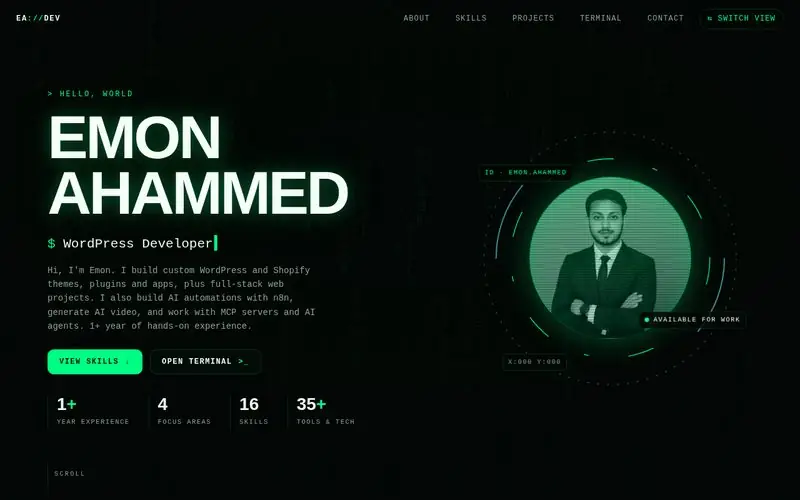
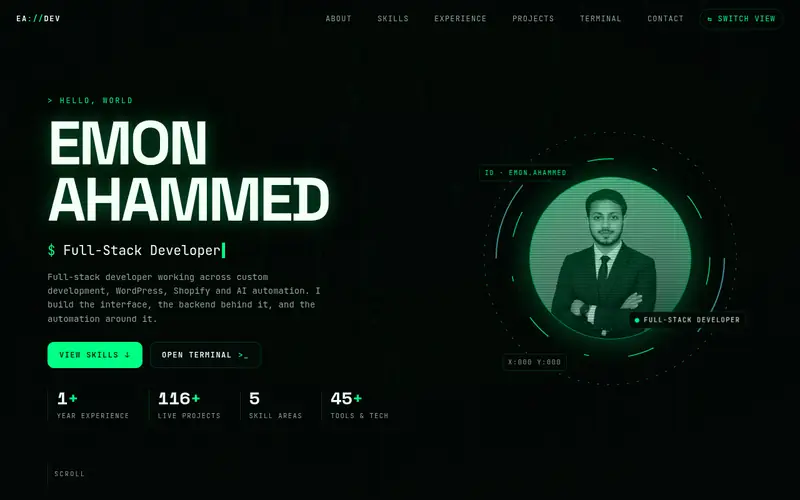
Experience links, BD Calling Academy, 3D project, fresh previews
- Experience: Pixelora Studio (branch of Betopia Limited) with links to both
  companies; Trainee Developer at BD Calling Academy (3 months) added first
- Mac desktop info, dock messages and Developer profile mention the roles
- Custom Development: Pixelora Studio 3D Experience (Three.js) at number 3
- Entry page ring uses fresh screenshots of all three portfolios

diff --git a/data.js b/data.js
@@ -111,8 +111,8 @@ window.PORTFOLIO = {
     { id: "experience", title: "1+ YEAR", cover: "year", cat: "about",
       subtitle: "Experience",
       type: "Experience",
-      text: "More than one year of custom full-stack development and real WordPress and Shopify projects, plus AI automation work.",
-      tools: "Full Stack, WordPress, Shopify, AI" },
+      text: "Started as a Trainee Developer at BD Calling Academy (3 months), then joined Pixelora Studio, a branch of Betopia Limited: WordPress Executive & Team Lead (6 months), Shopify Executive & Team Lead (4 months) and Executive, Full-Stack Web Developer (6 months).",
+      tools: "BD Calling Academy, Pixelora Studio, Betopia Limited" },
 
     { id: "projects", title: "PROJECTS", cover: "folder", cat: "about",
       subtitle: "Live client work",
@@ -152,11 +152,11 @@ window.PORTFOLIO = {
 
   // Entry page: the portfolio styles a visitor can pick. Add another object to add another style.
   modes: [
-    { key: "mac", name: "Quick & Simple", tag: "macOS desktop", href: "mac/", preview: "previews/mac.webp",
+    { key: "mac", name: "Quick & Simple", tag: "macOS desktop", href: "mac/", preview: "previews/mac.webp?v=2",
       desc: "A Mac-style desktop. Click icons, open windows, play with the dock. See everything in a minute." },
-    { key: "dev", name: "Developer", tag: "full portfolio", href: "dev/", preview: "previews/dev.webp",
+    { key: "dev", name: "Developer", tag: "full portfolio", href: "dev/", preview: "previews/dev.webp?v=2",
       desc: "The full technical portfolio: skills, stack, projects and a live terminal you can type in." },
-    { key: "pro", name: "Professional", tag: "clean & light", href: "pro/", preview: "previews/pro.webp",
+    { key: "pro", name: "Professional", tag: "clean & light", href: "pro/", preview: "previews/pro.webp?v=2",
       desc: "A clean, light portfolio with a sidebar: about, skills, experience, projects and contact." },
   ],
 
@@ -179,11 +179,17 @@ window.PORTFOLIO = {
   // Professional portfolio: experience timeline. Replace with your real roles, companies and dates.
   experience: [
     // In order: first role at the top. "when" is shown as the period label.
-    { role: "WordPress Executive & Team Lead", where: "Betopia Limited", when: "6 months",
+    // links (optional): any name in "where" listed here is shown as a link.
+    { role: "Trainee Developer", where: "BD Calling Academy", when: "3 months",
+      text: "Hands-on developer training: building real web projects and working through frontend and backend tasks with a team." },
+    { role: "WordPress Executive & Team Lead", where: "Pixelora Studio, a branch of Betopia Limited", links: { "Pixelora Studio": "https://pixelora.studio/company", "Betopia Limited": "https://www.betopialimited.com/" },
+      when: "6 months",
       text: "Led the WordPress team: custom theme and plugin development, WooCommerce stores, code reviews and client delivery." },
-    { role: "Shopify Executive & Team Lead", where: "Betopia Limited", when: "4 months",
+    { role: "Shopify Executive & Team Lead", where: "Pixelora Studio, a branch of Betopia Limited", links: { "Pixelora Studio": "https://pixelora.studio/company", "Betopia Limited": "https://www.betopialimited.com/" },
+      when: "4 months",
       text: "Led the Shopify team: custom Liquid themes with tailored sections and metafields, custom apps, and store launches." },
-    { role: "Executive, Full-Stack Web Developer", where: "Betopia Limited", when: "6 months",
+    { role: "Executive, Full-Stack Web Developer", where: "Pixelora Studio, a branch of Betopia Limited", links: { "Pixelora Studio": "https://pixelora.studio/company", "Betopia Limited": "https://www.betopialimited.com/" },
+      when: "6 months",
       text: "Building custom web apps end to end: responsive frontends, APIs, databases and deployment, in JavaScript, PHP and Python." },
     { role: "AI Automation Builder", where: "n8n, AI agents, MCP & AI video", when: "Ongoing",
       text: "Creating n8n workflows and AI agents that remove repetitive work, connecting models to tools through MCP servers, and generating AI video." },
@@ -195,6 +201,7 @@ window.PORTFOLIO = {
     // Custom Full-Stack & Web Apps (VPS + Issue Sheet CMS)
     {"cat":"code","icon":"nextdotjs","image":"previews/projects/cuply.webp","title":"Cuply","desc":"Australia-wide café discovery platform: search independent cafés and roasters, browse menus, and a paid listing plan with a free trial for café owners.","tech":["Next.js","React","Custom build"],"link":"https://cuply.com.au/"},
     {"cat":"code","icon":"react","image":"previews/projects/houseandpaw.webp","title":"House & Paw","desc":"South African marketplace connecting pet owners with ID-verified pet, house and security sitters: city and category search, verified reviews, in-app messaging and zero booking commission.","tech":["React","Vite","Custom build"],"link":"https://houseandpaw.co.za/"},
+    {"cat":"code","icon":"javascript","image":"previews/projects/pixelora-3d.webp","title":"Pixelora Studio 3D Experience","desc":"Scroll-driven 3D website built with Three.js: a lit night-time scene of the Pixelora Studio building that you walk into section by section, with ambient sound and animated lights.","tech":["Three.js","WebGL","JavaScript"],"link":"https://scroll-rho-three.vercel.app/"},
     {"cat":"code","icon":"nextdotjs","image":"previews/projects/mako-marketing.webp","title":"Mako Marketing","desc":"High-performance B2B digital marketing agency web application with interactive animations and lead audit flows.","tech":["Next.js","React","Motion UI"],"link":"https://www.makomarketing.ca/","placeholder":false},
     {"cat":"code","icon":"nextdotjs","image":"previews/projects/elite-teen-counseling.webp","title":"Elite Teen Counseling","desc":"Custom healthcare and therapy practice web app with statewide booking flows and service pages.","tech":["Next.js","Booking Flow","Custom UI"],"link":"https://eliteteencounseling.com/","placeholder":false},
     {"cat":"code","icon":"react","image":"previews/projects/prestigehcs.webp","title":"Prestige Health Care Services","desc":"Home-care provider site for Ohio: private duty nursing, waiver and disability programmes, case-referral and care-request flows, and a case manager hub.","tech":["React","Vite","Custom build"],"link":"https://www.prestigehcs.com/"},
@@ -319,8 +326,8 @@ window.PORTFOLIO = {
 
   // Dock "apps" — clicking one shows an alert and can highlight related icons.
   apps: {
-    wp: { name: "WordPress", msg: "Custom themes, custom plugins and WooCommerce. 1+ year of hands-on WordPress work.", button: "Show work" },
-    shopify: { name: "Shopify", msg: "Custom Shopify themes in Liquid and custom apps for merchants.", button: "Show work" },
+    wp: { name: "WordPress", msg: "Custom themes, custom plugins and WooCommerce. Led the WordPress team at Pixelora Studio (Betopia Limited).", button: "Show work" },
+    shopify: { name: "Shopify", msg: "Custom Shopify themes in Liquid and custom apps. Led the Shopify team at Pixelora Studio (Betopia Limited).", button: "Show work" },
     code: { name: "Custom Dev", msg: "Custom full-stack development: frontend, backend, APIs, plus Python scripts and services.", button: "Show work" },
     ai: { name: "n8n", msg: "Workflow executed successfully. AI automation, AI agents, AI video and MCP.", button: "Show work" },
     warn: { name: "Warning", msg: "Side effects of Emon's work include faster websites and far fewer manual tasks.", button: "Contact Emon", cancel: "Cancel" },

diff --git a/dev/dev.js b/dev/dev.js
@@ -96,7 +96,7 @@
   const S = (v) => `<span class="s">"${esc(v)}"</span>`;
   const arr = (list) => `<span class="p">[</span>${list.map(S).join('<span class="p">, </span>')}<span class="p">]</span>`;
   $("about-json").innerHTML = '<span class="p">{</span>\n' +
-    J("name", S(P.name)) + J("role", S("Full-stack developer")) + J("experience", S("1+ year")) +
+    J("name", S(P.name)) + J("role", S("Full-stack developer")) + J("experience", S("1+ year")) + J("company", S("Pixelora Studio (Betopia Limited)")) +
     J("focus", arr(P.projectTabs.map((g) => g.name))) +
     J("languages", arr(["JavaScript", "TypeScript", "PHP", "Python"])) +
     J("liveProjects", `<span class="nmb">${P.projects.filter((p) => !p.placeholder).length}</span>`) +
@@ -108,10 +108,12 @@
     g.items.map(([name, key, note], i) => `<article class="card tile rv" style="--i:${i + 1}" data-hot>${icon(key)}<div><h3>${esc(name)}</h3><div class="st">${esc(note)}</div></div></article>`).join("") +
     "</div></div>").join("");
 
+  // Experience "where" text, with any names listed in e.links turned into links.
+  const whereHtml = (e) => Object.entries(e.links || {}).reduce((h, [name, url]) => h.split(esc(name)).join(`<a href="${esc(url)}" target="_blank" rel="noopener">${esc(name)}</a>`), esc(e.where));
   /* ---------- Experience: a commit-log style timeline ---------- */
   $("exp-log").innerHTML = P.experience.map((e, i) => `<li class="rv" style="--i:${i}">
       <span class="hash">${(0x9f3a1c + i * 0x1b2f7).toString(16).slice(0, 7)}</span>
-      <div><h3>${esc(e.role)}</h3><div class="meta">${esc(e.where)} <span>· ${esc(e.when)}</span></div><p>${esc(e.text)}</p></div></li>`).join("");
+      <div><h3>${esc(e.role)}</h3><div class="meta">${whereHtml(e)} <span>· ${esc(e.when)}</span></div><p>${esc(e.text)}</p></div></li>`).join("");
 
   /* ---------- Projects: tabs per stack, six cards each, then "View all" ---------- */
   const tabs = P.projectTabs.filter((t) => P.projects.some((p) => p.cat === t.cat));

diff --git a/mac/script.js b/mac/script.js
@@ -417,6 +417,8 @@
     makeWin(it.id, "Information about: " + it.title.replace("\n", " ").toLowerCase().replace(/\b\w/g, (c) => c.toUpperCase()), html, "", src);
   }
 
+  // Experience "where" text, with any names listed in e.links turned into links.
+  const whereHtml = (e) => Object.entries(e.links || {}).reduce((h, [name, url]) => h.split(esc(name)).join(`<a href="${esc(url)}" target="_blank" rel="noopener">${esc(name)}</a>`), esc(e.where));
   /* ---- Notes (About) ---- */
   function openNotes(src) {
     const d = new Date().toLocaleDateString("en-US", { month: "long", day: "numeric", year: "numeric" });
@@ -431,7 +433,7 @@
       <h3>Skills</h3>
       ${P.stack.map((g) => `<p><b>${esc(g.name)}</b><br><span class="muted">${g.items.map((it) => esc(it[0])).join(" · ")}</span></p>`).join("")}
       <h3>Experience</h3>
-      <ul>${P.experience.map((e) => `<li><b>${esc(e.role)}</b> · ${esc(e.where)} <span class="muted">(${esc(e.when)})</span></li>`).join("")}</ul>
+      <ul>${P.experience.map((e) => `<li><b>${esc(e.role)}</b> · ${whereHtml(e)} <span class="muted">(${esc(e.when)})</span></li>`).join("")}</ul>
       <p>See my work in <a href="#" data-open="projects">Projects 📁</a>, or say hi in Mail ✉</p>`, "notes", src);
     wins.get("notes")?.querySelector('[data-open="projects"]')?.addEventListener("click", (e) => { e.preventDefault(); openProjects(dockBtns.finder); });
   }

diff --git a/pro/pro.js b/pro/pro.js
@@ -87,8 +87,10 @@
       return `<article class="tile rv" style="--i:${i + 1}${ic.color ? `;--c:${ic.color}` : ""}"><span class="ic"${dim ? " data-dim" : ""}>${ic.html}</span><div><h4>${esc(name)}</h4><small>${esc(note)}</small></div></article>`;
     }).join("") + "</div></div>").join("");
 
+  // Experience "where" text, with any names listed in e.links turned into links.
+  const whereHtml = (e) => Object.entries(e.links || {}).reduce((h, [name, url]) => h.split(esc(name)).join(`<a href="${esc(url)}" target="_blank" rel="noopener">${esc(name)}</a>`), esc(e.where));
   /* ---------- Experience ---------- */
-  $("timeline").innerHTML = P.experience.map((e, i) => `<li class="rv" style="--i:${i}"><div class="when">${esc(e.when)}</div><div><h4>${esc(e.role)}</h4><div class="meta">${esc(e.where)}</div><p>${esc(e.text)}</p></div></li>`).join("");
+  $("timeline").innerHTML = P.experience.map((e, i) => `<li class="rv" style="--i:${i}"><div class="when">${esc(e.when)}</div><div><h4>${esc(e.role)}</h4><div class="meta">${whereHtml(e)}</div><p>${esc(e.text)}</p></div></li>`).join("");
 
   /* ---------- Projects: category tabs + "All", 6 cards initially, "View all" expands cleanly ---------- */
   const FALLBACK_ICON = { code: "react", wp: "wordpress", shopify: "shopify", ai: "n8n" };

diff --git a/pro/index.html b/pro/index.html
@@ -11,7 +11,7 @@
   <link rel="preconnect" href="https://fonts.gstatic.com" crossorigin />
   <link rel="preload" as="style" href="https://fonts.googleapis.com/css2?family=Bricolage+Grotesque:opsz,wght@12..96,500;12..96,700;12..96,800&family=Instrument+Serif:ital@0;1&family=Inter:wght@400;500;600&family=JetBrains+Mono:wght@400;500;600&display=swap" onload="this.onload=null;this.rel='stylesheet'" />
   <noscript><link rel="stylesheet" href="https://fonts.googleapis.com/css2?family=Bricolage+Grotesque:opsz,wght@12..96,500;12..96,700;12..96,800&family=Instrument+Serif:ital@0;1&family=Inter:wght@400;500;600&family=JetBrains+Mono:wght@400;500;600&display=swap" /></noscript>
-  <link rel="stylesheet" href="pro.css?v=9" />
+  <link rel="stylesheet" href="pro.css?v=10" />
 </head>
 <body>
   <canvas id="dust" aria-hidden="true"></canvas>
@@ -148,8 +148,8 @@
     </div>
   </div>
 
-  <script src="../data.js?v=59"></script>
+  <script src="../data.js?v=64"></script>
   <script src="icons.js?v=6"></script>
-  <script src="pro.js?v=11"></script>
+  <script src="pro.js?v=12"></script>
 </body>
 </html>

diff --git a/dev/index.html b/dev/index.html
@@ -11,7 +11,7 @@
   <link rel="preload" as="style" href="https://fonts.googleapis.com/css2?family=Space+Grotesk:wght@500;700&family=JetBrains+Mono:wght@400;600;700&display=swap" onload="this.onload=null;this.rel='stylesheet'" />
   <noscript><link rel="stylesheet" href="https://fonts.googleapis.com/css2?family=Space+Grotesk:wght@500;700&family=JetBrains+Mono:wght@400;600;700&display=swap" /></noscript>
   <link rel="stylesheet" href="../fx.css?v=29" />
-  <link rel="stylesheet" href="dev.css?v=23" />
+  <link rel="stylesheet" href="dev.css?v=25" />
 </head>
 <body>
   <canvas id="rain" aria-hidden="true"></canvas>
@@ -129,10 +129,10 @@
     <a href="../">&#8646; other portfolio styles</a>
   </footer>
 
-  <script src="../data.js?v=59"></script>
+  <script src="../data.js?v=64"></script>
   <script src="../matrix.js?v=29"></script>
   <script src="../fx.js?v=37"></script>
   <script src="../pro/icons.js?v=6"></script>
-  <script src="dev.js?v=23"></script>
+  <script src="dev.js?v=26"></script>
 </body>
 </html>

diff --git a/pro/pro.css b/pro/pro.css
@@ -536,3 +536,7 @@ html.dark .tab.on small { color: #15151a; }
 .live-form { margin: 0; }
 .live-form .more { padding: 0; border: 0; background: none; cursor: pointer; font: 600 13.5px var(--body); color: var(--violet); display: inline-flex; align-items: center; gap: 8px; }
 .live-form .more small { font: 500 9.5px var(--mono); letter-spacing: .06em; text-transform: uppercase; padding: 2px 6px; border-radius: 5px; background: var(--violet-soft); color: var(--violet); }
+
+/* Company links in Experience */
+.timeline .meta a { text-decoration: underline; text-decoration-thickness: 1px; text-underline-offset: 3px; text-decoration-color: color-mix(in srgb, var(--violet) 40%, transparent); transition: text-decoration-color .2s; }
+.timeline .meta a:hover { text-decoration-color: var(--violet); }

diff --git a/dev/dev.css b/dev/dev.css
@@ -248,3 +248,7 @@ main, .foot { position: relative; z-index: 10; }
 .more-btn[hidden] { display: none; }
 .more-btn.open i { display: inline-block; transform: rotate(180deg); }
 @media (max-width: 720px) { .log li { grid-template-columns: 1fr; gap: 4px; } .projects { grid-template-columns: 1fr; } }
+
+/* Company links in Experience */
+.log .meta a { color: var(--green); text-decoration: none; border-bottom: 1px dashed rgba(0,255,132,.45); }
+.log .meta a:hover { border-bottom-style: solid; }

diff --git a/mac/index.html b/mac/index.html
@@ -20,8 +20,8 @@
 
   <nav class="dock" id="dock" aria-label="Dock"></nav>
 
-  <script src="../data.js?v=59"></script>
+  <script src="../data.js?v=64"></script>
   <script src="covers.js?v=26"></script>
-  <script src="script.js?v=26"></script>
+  <script src="script.js?v=27"></script>
 </body>
 </html>

diff --git a/index.html b/index.html
@@ -60,7 +60,7 @@
     </div>
   </main>
 
-  <script src="data.js?v=59"></script>
+  <script src="data.js?v=64"></script>
   <script src="fx.js?v=37"></script>
   <script src="gate.js?v=37"></script>
 </body>
